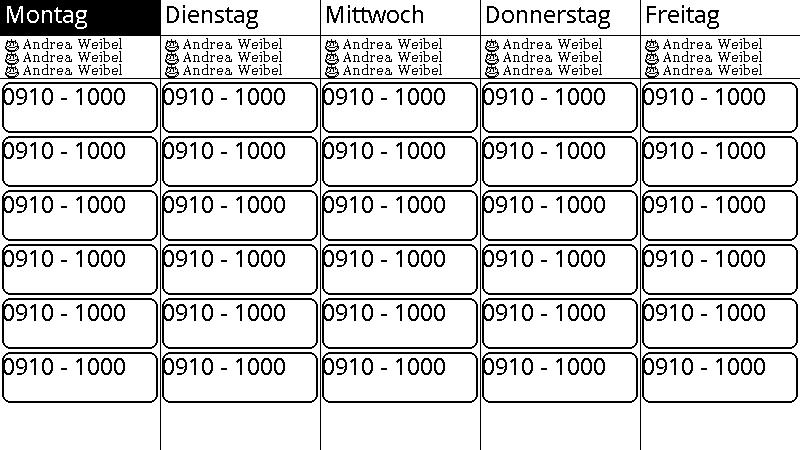
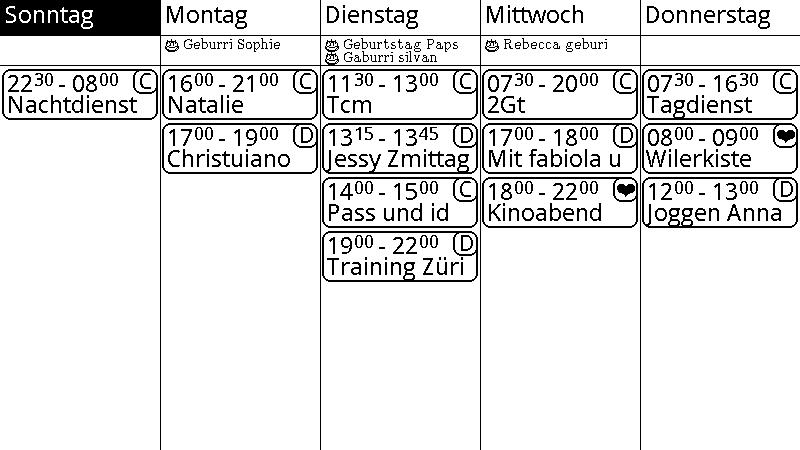
finish first draft

diff --git a/DisplayDrawer.py b/DisplayDrawer.py
@@ -19,9 +19,18 @@ cal_event_height = 50
 pad_cal_event = 2
 
 font24 = ImageFont.truetype(os.path.join('res', 'Font.ttc'), 24)
+font22 = ImageFont.truetype(os.path.join('res', 'Font.ttc'), 22)
 font18 = ImageFont.truetype(os.path.join('res', 'Font.ttc'), 18)
 font14 = ImageFont.truetype(os.path.join('res', 'Font.ttc'), 14)
 emojiFont = ImageFont.truetype(os.path.join('res', 'Symbola.ttf'), 14)
+emojiFontL = ImageFont.truetype(os.path.join('res', 'Symbola.ttf'), 22)
+
+lengths = {'a': 11, 'b': 10, 'c': 13, 'd': 10, 'e': 11, 'f': 18, 'g': 11, 'h': 10, 'i': 25, 'j': 25, 'k': 12, 'l': 25,
+           'm': 6, 'n': 10, 'o': 10, 'p': 10, 'q': 10, 'r': 14, 's': 13, 't': 18, 'u': 10, 'v': 12, 'w': 8, 'x': 12,
+           'y': 12, 'z': 13, ' ': 25, 'ä': 11, 'ö': 10, 'ü': 10, '1': 11, '2': 111, '3': 11, '4': 11, '5': 11, '6': 11,
+           '7': 11, '8': 11, '9': 11, '0': 11}
+
+# COUNTER = 26
 
 
 def setup():
@@ -30,19 +39,53 @@ def setup():
     libdir = os.path.join(os.path.dirname(os.path.dirname(os.path.realpath(__file__))), 'lib')
     if os.path.exists(libdir):
         sys.path.append(libdir)
-
     logging.basicConfig(level=logging.DEBUG)
 
 
-def draw_cal_event(draw, x, y, time, who, summary):
+def draw_cal_event(draw, x, y, _time, who, summary):
+    global COUNTER
     draw.rounded_rectangle(
         (x + pad_cal_event, y, x + offset_days_x - pad_cal_event - 1, y + cal_event_height), fill=1,
         outline=0,
         width=2, radius=8)
-    draw.text((x + pad_cal_event, y), time, fill=0, font=font24)
+    x += 3
+    # draw time
+    cursor = 2 * pad_cal_event
+    draw.text((x + cursor, y), _time[0:2], fill=0, font=font24)
+    cursor += 27
+    draw.text((x + cursor, y), _time[2:4], fill=0, font=font18)
+    cursor += 18
+    draw.text((x + cursor, y), _time[4:9], fill=0, font=font24)
+    cursor += 25 + 22
+    draw.text((x + cursor, y), _time[9:11], fill=0, font=font18)
 
 
-def start_drawing():
+    # draw who top right corner
+    draw.rounded_rectangle(
+        (x + 130, y, x + offset_days_x - pad_cal_event - 4, y + cal_event_height / 2 - 1), fill=1,
+        outline=0,
+        width=2, radius=8)
+    if who in ['D', 'C']:
+        draw.text((x + offset_days_x - 24, y - 1), who, fill=0, font=font22)
+    else:
+        draw.text((x + offset_days_x - 27, y + 4), '❤', fill=0, font=emojiFontL) #'😍'
+
+    # draw summary in Field
+    draw.text((x + 2 * pad_cal_event, y + 21), make_string_fit(summary), fill=0, font=font24)
+    # COUNTER += 1
+
+def make_string_fit(s):
+    i_length = lengths['i'] + 0.5
+    score = 0
+    index = 0
+    while score <= i_length:
+        score += (i_length / lengths[s[index].lower()])
+        index += 1
+        if index >= len(s):
+            return s[0:index]
+    return s[0:index - 1]
+
+def start_drawing(wd_events, n_events):
     try:
         # epd = epd7in5_V2.EPD()
         # epd.init()
@@ -59,30 +102,41 @@ def start_drawing():
         Himage = Image.new('1', (width, height), 255)  # 255: clear the frame
         draw = ImageDraw.Draw(Himage)
         # draw.text((10, 0), 'Montag', font=font24, fill=0)
-        days = ['Montag', 'Dienstag', 'Mittwoch', 'Donnerstag', 'Freitag', 'Samstag', 'Sonntag']
+        # days = ['Montag', 'Dienstag', 'Mittwoch', 'Donnerstag', 'Freitag', 'Samstag', 'Sonntag']
         # draw calendar
+
+        num_wd_events = 0
+        for day in wd_events:
+            num_wd_events = max(num_wd_events, len(wd_events[day]))
+
         pad_bday = 4
         draw.line((0, offset_days_y, width, offset_days_y), fill=0)
         draw.rectangle((0, 0, offset_days_x, offset_days_y), fill=0)
-        for i in range(1, 6):
-            draw.text(((i - 1) * offset_days_x + 5, 0), days[i - 1], font=font24, fill=1 if i == 1 else 0)
+        i = 1
+        for day in wd_events:
+            draw.text(((i - 1) * offset_days_x + 5, 0), day, font=font24, fill=1 if i == 1 else 0)
             draw.line((i * offset_days_x, 0, i * offset_days_x, height))
 
             # draw birthdays / whole day thingys
             pad_small = 13
-            offset = 0
-            for j in range(0, 3):
-                draw.text(((i - 1) * offset_days_x + 5, (j * pad_small) + offset_days_y + pad_bday), "🎂 Andrea Weibel",
+
+            j = 0
+            for wd_event in wd_events[day]:
+                draw.text(((i - 1) * offset_days_x + 5, (j * pad_small) + offset_days_y + pad_bday), "🎂 " + wd_event['SUMMARY'][0:17],
                           font=emojiFont, fill=0)
-                if j > offset:
-                    offset = j
-            offset += 1
-            offset *= pad_small
+                j += 1
+            offset = pad_small * num_wd_events
             # draw one calendar date
             cur_offset_y = offset + offset_days_y + pad_bday * 2
-            # draw.rounded_rectangle(((i - 1) * offset_days_x, cur_offset_y, offset_days_x, 50), fill=1, radius=5)
-            for k in range(0, 6):
-                draw_cal_event(draw, (i-1) * offset_days_x, k * (cal_event_height + 2 * pad_cal_event)+ cur_offset_y, "0910 - 1000", "D", "Summary of Event")
+
+            k = 0
+            for n_event in n_events[day]:
+                startTime = n_event['DTSTART'].dt.strftime("%H%M")
+                endTime = n_event['DTEND'].dt.strftime("%H%M")
+                draw_cal_event(draw, (i - 1) * offset_days_x, k * (cal_event_height + 2 * pad_cal_event) + cur_offset_y,
+                               startTime + ' - ' + endTime, n_event['WHO'], n_event['SUMMARY'])
+                k += 1
+            i += 1
 
         draw.line((0, offset + offset_days_y + pad_bday, width, offset + offset_days_y + pad_bday))
 

diff --git a/main.py b/main.py
@@ -4,8 +4,12 @@ import datetime
 import recurring_ical_events
 from pytz import timezone
 import DisplayDrawer
+import schedule
 
 from icalendar import Calendar
+
+
+days = ['Montag', 'Dienstag', 'Mittwoch', 'Donnerstag', 'Freitag', 'Samstag', 'Sonntag']
 
 
 def time_in_range(start, end, x):
@@ -15,33 +19,66 @@ def time_in_range(start, end, x):
     else:
         return start <= x or x <= end
 
-def setup_calendar():
+def setup_calendars():
     secrets = configparser.RawConfigParser()
     secrets.read('secrets.ini', encoding="utf8")
-    link = secrets["Calendar"]["link2"]
-    myfile = requests.get(link)
+    linkD = secrets["Calendar"]["linkD"]
+    linkC = secrets["Calendar"]["linkC"]
+    linkCD = secrets["Calendar"]["linkCD"]
+    links = [linkD, linkC, linkCD]
+    names = ['D', 'C', 'Z']
 
-    # print(myfile.content)
+    result = []
     now = datetime.date.today()
-    print(now)
-    in7days = now + datetime.timedelta(days=7)
-    gcal = Calendar.from_ical(myfile.content)
-    # localtz = timezone(gcal.get('X-WR-TIMEZONE'))
-    for component in gcal.walk():
-        if component.name == "VTIMEZONE":
-            localtz = timezone(component.get('TZID'))
-    # recurring events
-    events = recurring_ical_events.of(gcal).between(now, in7days)
-    for event in events:
-        summary = event['SUMMARY']
-        startTime = event['DTSTART'].dt
-        endTime = event['DTEND'].dt  # TODO do the times match?
-        print(summary, startTime, endTime)
-    myfile.close()
+    in5days = now + datetime.timedelta(days=5)
+    for i in range(3):
+        myfile = requests.get(links[i])
+        gcal = Calendar.from_ical(myfile.content)
+        # recurring events
+        events = recurring_ical_events.of(gcal).between(now, in5days)
+        for event in events:
+            event['WHO'] = names[i]
+        result += events
+        myfile.close()
+
+    return result
+
+
+def prepare_events(even):
+    # put all events in a dict from weekday to events
+    whole_day_events = dict()
+    normal_events = dict()
+    now = datetime.date.today().weekday()
+    for i in range(now, now + 5):
+        whole_day_events[days[i % 7]] = []
+        normal_events[days[i % 7]] = []
+    # starting with today
+    for event in even:
+        start_time = event['DTSTART'].dt
+
+        try:
+            if type(start_time) is datetime.date:
+                # whole day event
+                whole_day_events[days[start_time.weekday()]].append(event)
+            else:
+                normal_events[days[start_time.weekday()]].append(event)
+        except KeyError:
+            continue
+
+    # sort normal events
+    for daysLists in normal_events:
+        normal_events[daysLists] = sorted(normal_events[daysLists], key=lambda x: x['DTSTART'].dt)
+    return whole_day_events, normal_events
+
+def repeating_task():
+    print('blub')
+    return
+    events = setup_calendars()
+    wd_events, n_events = prepare_events(events)
+    DisplayDrawer.start_drawing(wd_events, n_events)
 
 
 if __name__ == "__main__":
-    # setup_calendar()
     DisplayDrawer.setup()
-    DisplayDrawer.start_drawing()
+    schedule.every(10).seconds.do(repeating_task)
 
